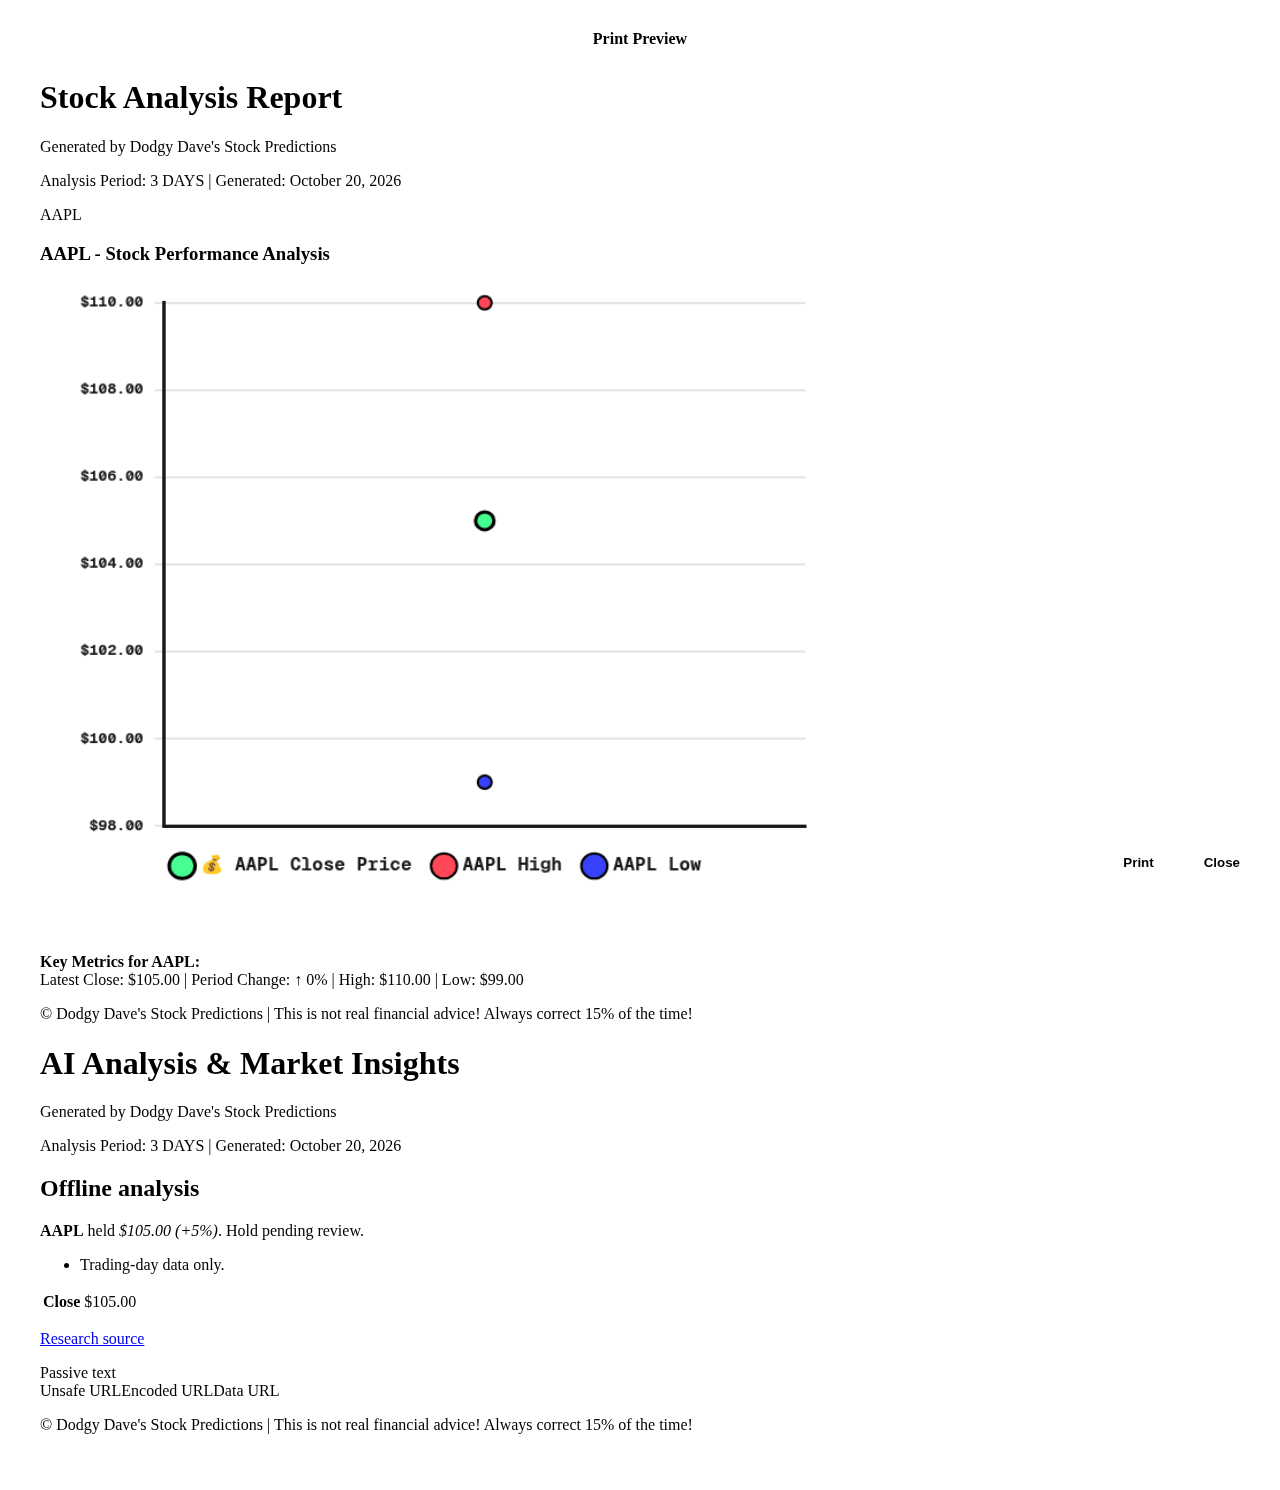
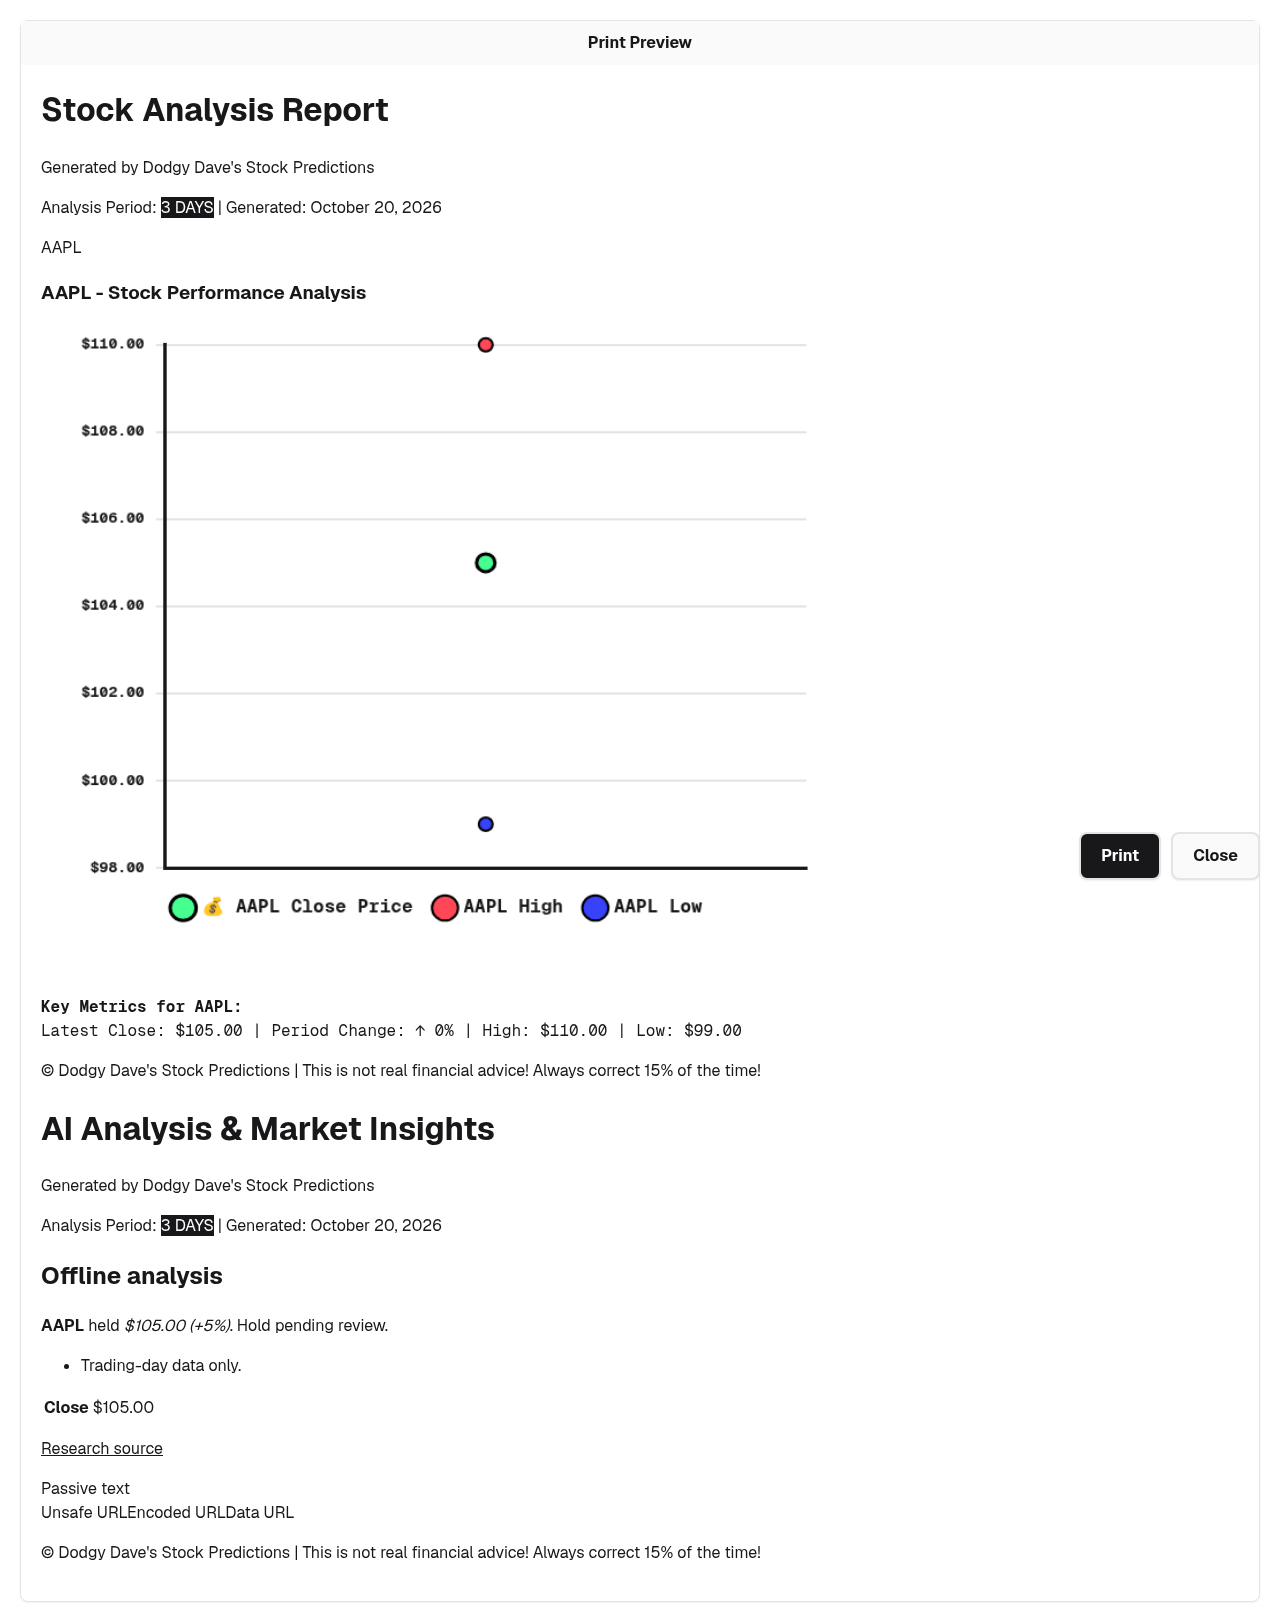
Bundle verified popup fonts and preserve legible print charts across themes

diff --git a/charts.ts b/charts.ts
@@ -13,7 +13,34 @@ export function printableChartImage(canvas: Element | null): string | null {
     if (!(canvas instanceof HTMLCanvasElement)) return null
     const chart = charts.find(chart => chart.canvas === canvas)
     if (!chart) return null
+    const restore: (() => void)[] = []
     try {
+        // Paper needs light chart chrome even when the live page is dark.
+        // Preserve datasets, windows, fonts and the live palette exactly.
+        for (const [id, scale] of Object.entries(chart.options.scales ?? {})) {
+            if (!scale) continue
+            if (scale.ticks) {
+                const ticks = scale.ticks, color = ticks.color
+                restore.push(() => { const current=chart.options.scales?.[id]?.ticks; if(current) current.color=color })
+                ticks.color = '#18181b'
+            }
+            if (scale.grid) {
+                const grid = scale.grid, color = grid.color
+                restore.push(() => { const current=chart.options.scales?.[id]?.grid; if(current) current.color=color })
+                grid.color = '#e4e4e7'
+            }
+            if (scale.border) {
+                const border = scale.border, color = border.color
+                restore.push(() => { const current=chart.options.scales?.[id]?.border; if(current) current.color=color })
+                border.color = '#18181b'
+            }
+        }
+        const labels = chart.options.plugins?.legend?.labels
+        if (labels) {
+            const color = labels.color
+            restore.push(() => { const current=chart.options.plugins?.legend?.labels; if(current) current.color=color })
+            labels.color = '#18181b'
+        }
         chart.stop()
         chart.update('none')
         const target = document.createElement('canvas')
@@ -21,11 +48,19 @@ export function printableChartImage(canvas: Element | null): string | null {
         target.height = 670
         const context = target.getContext('2d')
         if (!context) return null
+        context.fillStyle = '#fff'
+        context.fillRect(0, 0, target.width, target.height)
         context.drawImage(canvas, 0, 0, target.width, target.height)
         return target.toDataURL('image/png', 0.9)
     } catch (error) {
         console.warn('Chart image unavailable for printing', error)
         return null
+    } finally {
+        try {
+            // Chart.js rebuilds option resolvers on update; restore through fresh paths.
+            for (const reset of restore) reset()
+            chart.update('none')
+        } catch (error) { console.warn('Could not redraw the live chart after printing', error) }
     }
 }
 export function destroyCharts(): void {

diff --git a/utils/report-popup.ts b/utils/report-popup.ts
@@ -1,3 +1,6 @@
+import foundationStyles from '../foundation.css?inline'
+import geistFont from '@fontsource-variable/geist/files/geist-latin-wght-normal.woff2?inline'
+import geistMonoFont from '@fontsource-variable/geist-mono/files/geist-mono-latin-wght-normal.woff2?inline'
 import { renderReportHtml } from './report-html'
 import { LEGACY_REPORT_STYLES, PRINT_PREVIEW_STYLES } from './popup-styles'
 
@@ -13,15 +16,14 @@ function popupWindow(name: string, features: string): Window | null {
 function frame(popup: Window, title: string, css: string): Document {
     const doc = popup.document
     const style = doc.createElement('style')
-    style.textContent = css
+    // Processed by Vite: font URLs point at emitted, build-owned assets.
+    // Inline the shared CSS because blank popup documents can defer link loads.
+    style.textContent = foundationStyles + `
+        @font-face {font-family:'Geist Popup';font-style:normal;font-weight:100 900;font-display:swap;src:url('${geistFont}') format('woff2')}
+        @font-face {font-family:'Geist Mono Popup';font-style:normal;font-weight:100 900;font-display:swap;src:url('${geistMonoFont}') format('woff2')}
+        :root {--font:'Geist Popup',system-ui,sans-serif;--mono:'Geist Mono Popup',ui-monospace,monospace}
+    ` + css
     doc.head.replaceChildren(style)
-    const foundation = document.querySelector<HTMLLinkElement>('link[data-foundation]')
-    if (foundation) {
-        const link = doc.createElement('link')
-        link.rel = 'stylesheet'
-        link.href = foundation.href
-        doc.head.append(link)
-    }
     doc.title = title
     doc.body.replaceChildren()
     return doc

diff --git a/utils/popup-styles.ts b/utils/popup-styles.ts
@@ -19,6 +19,11 @@ export const PRINT_PREVIEW_STYLES = `
                             text-align: center;
                             font-weight: bold;
                         }
+                        .preview-container .print-chart-canvas {
+                            display: block;
+                            max-width: 100%;
+                            height: auto;
+                        }
                         .preview-actions {
                             position: fixed;
                             bottom: 20px;
@@ -36,7 +41,7 @@ export const PRINT_PREVIEW_STYLES = `
                         }
                         .preview-btn-print {
                             background: var(--acc);
-                            color: var(--fg);
+                            color: var(--on-acc);
                         }
                         .preview-btn-close {
                             background: var(--panel2);
@@ -66,6 +71,7 @@ export const LEGACY_REPORT_STYLES = `
                             }
                             .tickers {
                                 background: var(--acc);
+                                color: var(--on-acc);
                                 padding: 0.5em 1em;
                                 border: 2px solid var(--line);
                                 display: inline-block;

diff --git a/runtime/modules.d.ts b/runtime/modules.d.ts
@@ -1,1 +1,4 @@
 declare module 'chartjs-adapter-date-fns'
+
+declare module '*.css?inline' { const css: string; export default css }
+declare module '*.woff2?inline' { const url: string; export default url }

diff --git a/docs/final-typescript-foundation.md b/docs/final-typescript-foundation.md
@@ -25,16 +25,16 @@ A unit gate rejects new application JavaScript/inline handler escape hatches and
 
 Only the permitted LUM files were read: [design tokens](https://github.com/goatcheese98/lum-brain/blob/main/src/styles/design-tokens.ts) (blob `e7e0c2362848c209914a5d9da2bcaa5657b663b8`), [fonts](https://github.com/goatcheese98/lum-brain/blob/main/src/styles/fonts.ts) (blob `d32cace0ed25de3f8e164b9b2d906ca6e782c0e9`), and [CSS standards](https://github.com/goatcheese98/lum-brain/blob/main/docs/css-standards.md) (blob `a0a54906dba295f4a3c0d76b0031e366579dec4a`).
 
-`foundation.css` owns the supplied light/dark semantic palette, radius scale and bundled typography. Exact `@fontsource-variable/geist` and `geist-mono` 5.3.0 packages supply local WOFF2s under OFL-1.1; notices are in `docs/licenses/`. Browser tests load actual font faces and verify `loaded` status, rather than merely checking a CSS family name. System sans/monospace remain fallback if font delivery fails. Both pages and generated popup documents load the built stylesheet. No Google Fonts/CDN font request remains.
+`foundation.css` owns the supplied light/dark semantic palette, radius scale and bundled typography. Exact `@fontsource-variable/geist` and `geist-mono` 5.3.0 packages supply local WOFF2s under OFL-1.1; notices are in `docs/licenses/`. Browser tests load actual font faces and verify `loaded` status, rather than merely checking a CSS family name. System sans/monospace remain fallback if font delivery fails. Both pages and generated popup documents load the built stylesheet. Popup tests explicitly verify loaded font faces and theme tokens inside the built preview: Vite removes source-only link attributes, so popup framing imports Vite-processed shared CSS and embeds the licensed Latin font subsets as build-owned data URLs under Geist Popup / Geist Mono Popup face names. This avoids source-only attributes and blank-document subresource stalls observed in the cloud browser harness. Other glyphs use the explicit system fallback. The tradeoff is about 70 kB of additional uncompressed font data in the shared popup helper; the normal pages retain cacheable WOFF2 assets. No Google Fonts/CDN font request remains.
 
-The layout, Dodgy Dave logo/avatars/content, personality selection, chart regions and print composition are retained. Chrome uses white/neutral light surfaces and neutral dark surfaces with gold accent. Errors retain readable semantic red; chart close/high/low remain distinguishable green/red/blue series with unchanged values/labels. Native controls retain visible focus and mobile input text is at least 16 px. Reduced motion disables CSS motion and GSAP initialization. Chart chrome follows the system theme; narrow legend typography/padding was adjusted after inspecting clipping. This is an existing-layout foundation pass, **not a Paper design or human approval**. Paper cloud remains unestablished; local Paper stayed closed. New layouts remain queued behind a versioned Paper design record.
+The layout, Dodgy Dave logo/avatars/content, personality selection, chart regions and print composition are retained. Chrome uses white/neutral light surfaces and neutral dark surfaces with gold accent. Errors retain readable semantic red; chart close/high/low remain distinguishable green/red/blue series with unchanged values/labels. Native controls retain visible focus and mobile input text is at least 16 px. Reduced motion disables CSS motion and GSAP initialization. Chart chrome follows the system theme; print export temporarily uses readable dark axes on opaque white paper and then restores the live chart palette and unchanged datasets. Popup regressions check real PNG paper/axis pixels and live color/data restoration. narrow legend typography/padding was adjusted after inspecting clipping. This is an existing-layout foundation pass, **not a Paper design or human approval**. Paper cloud remains unestablished; local Paper stayed closed. New layouts remain queued behind a versioned Paper design record.
 
 Captured and inspected in cloud:
 
 - Before: `evidence/input-before-lum.png`, `evidence/report-before-lum.png` (same retained layout before style edits).
 - After light/dark desktop: `evidence/input-lum-{light,dark}-desktop.png`, `evidence/report-lum-{light,dark}-desktop.png`.
 - After light/dark 390 px mobile: `evidence/input-lum-{light,dark}-mobile-focus-error.png`, `evidence/report-lum-{light,dark}-mobile.png`.
-- Existing print controls: `evidence/print-dialog-lum-{light,dark}.png`; sanitized rich preview remains `evidence/report-sanitized-preview.png`.
+- Existing print controls: `evidence/print-dialog-lum-{light,dark}.png`; sanitized rich preview remains `evidence/report-sanitized-preview.png`; themed built popups are `evidence/print-preview-lum-{light,dark}.png`.
 
 These are explicit offline fixture captures, not forecasts or live market evidence. Existing CodePen decorative confetti image URLs remain unchanged; network tests block them, so those external art pixels/availability remain unverified. Real bundled GSAP physics, Chart.js canvas pixels, date adapter, local fonts and report navigation are exercised. No runtime chart/animation CDN execution is relied upon; historical CDN behavior is not newly verified.
 
@@ -48,7 +48,7 @@ Cloud pinned-browser download was attempted and rejected by the managed egress p
 
 ## Validation and dependency disposition
 
-Final commands and exact results are recorded in the PR. Cloud gates: locked offline install (49 installed packages), strict types, 16 unit/boundary/lifecycle/inventory tests, all previous 21 browser cases plus six lifecycle/foundation cases (27 total), production build (356 modules), full npm audit, and whitespace validation. One interim browser run was invalidated by a concurrent reinstall; only the serial final run is accepted.
+Final commands and exact results are recorded in the PR. Cloud gates: locked offline install (49 installed packages), strict types, 16 unit/boundary/lifecycle/inventory tests, all previous 21 browser cases plus six lifecycle/foundation cases (27 total), production build (359 modules), full npm audit, and whitespace validation. One interim browser run was invalidated by a concurrent reinstall; only the serial final run is accepted.
 
 Full npm audit reports zero findings across production and tooling dependencies. Runtime versions remain Vue 3.5.44, Chart.js 4.5.1, adapter 3.0.0, date-fns 4.4.0, DOMPurify 3.4.17 and GSAP 3.13.0; fonts add only exact OFL packages. DOMPurify retains `(MPL-2.0 OR Apache-2.0)`; GSAP uses its [Standard no-charge license](https://gsap.com/standard-license), not MIT. Vite 8.3.4, TypeScript 5.9.3 and Playwright 1.56.1 are exact locked tooling. Zero registry findings are not a universal security proof.
 
